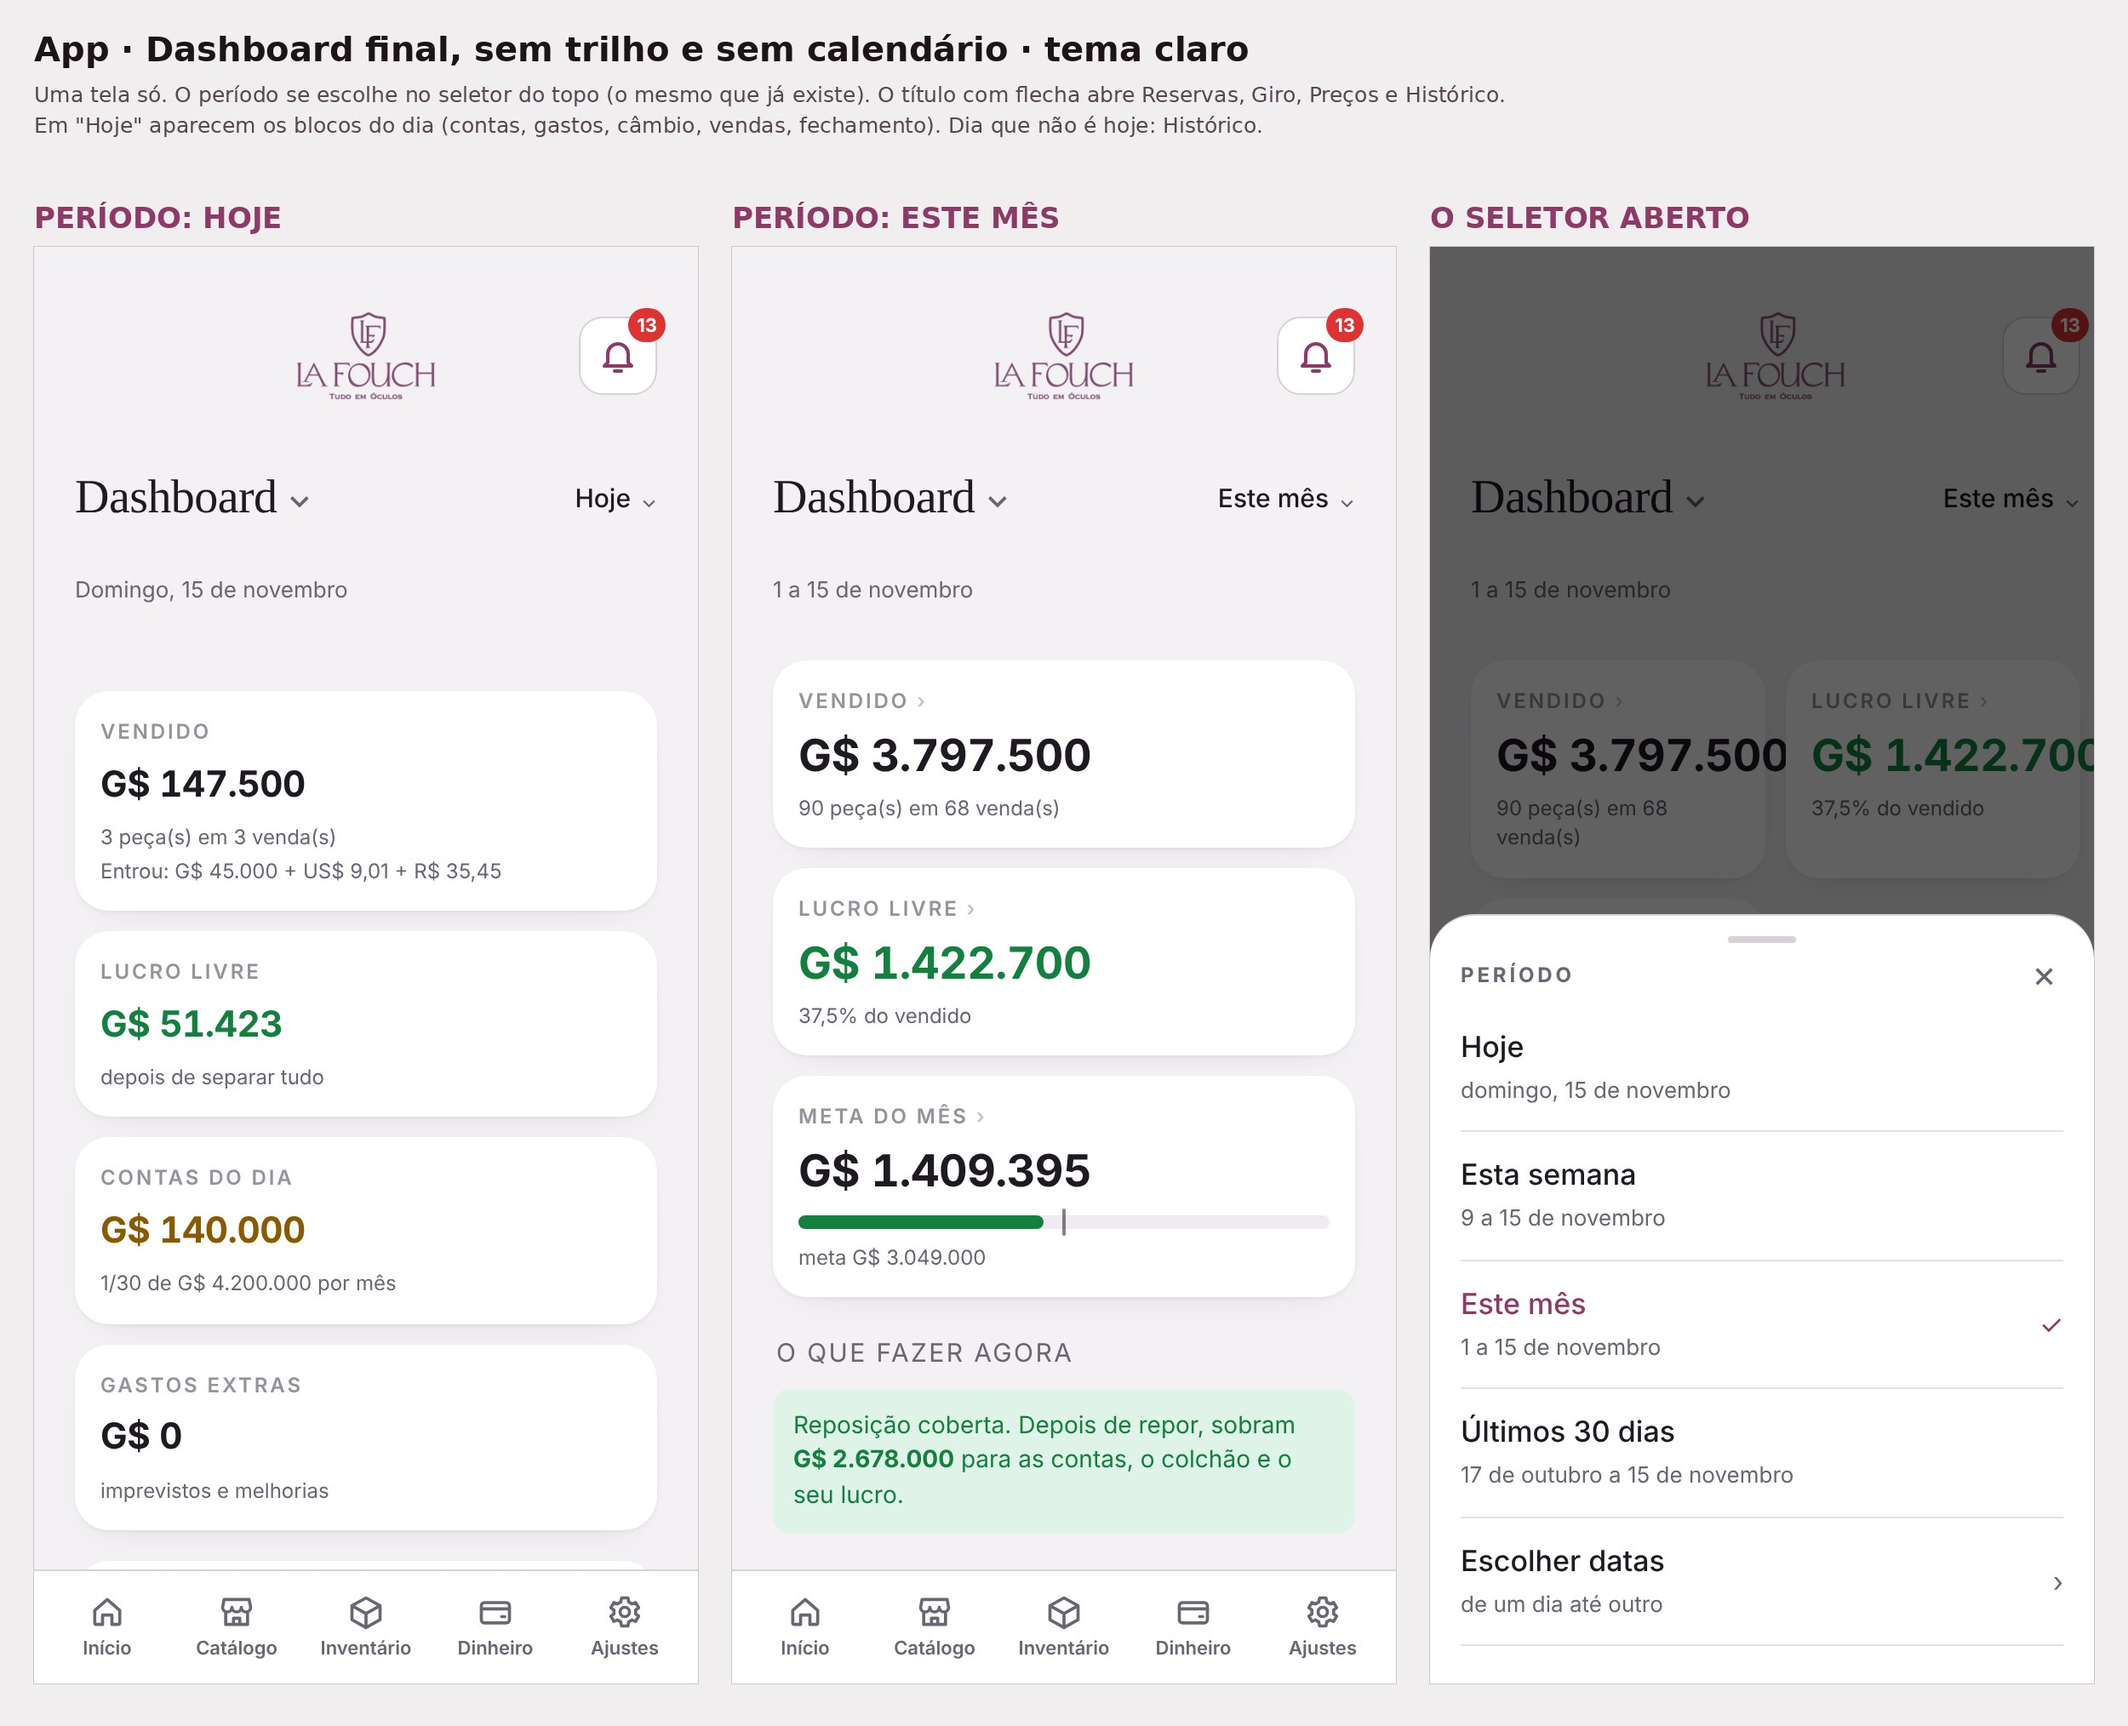
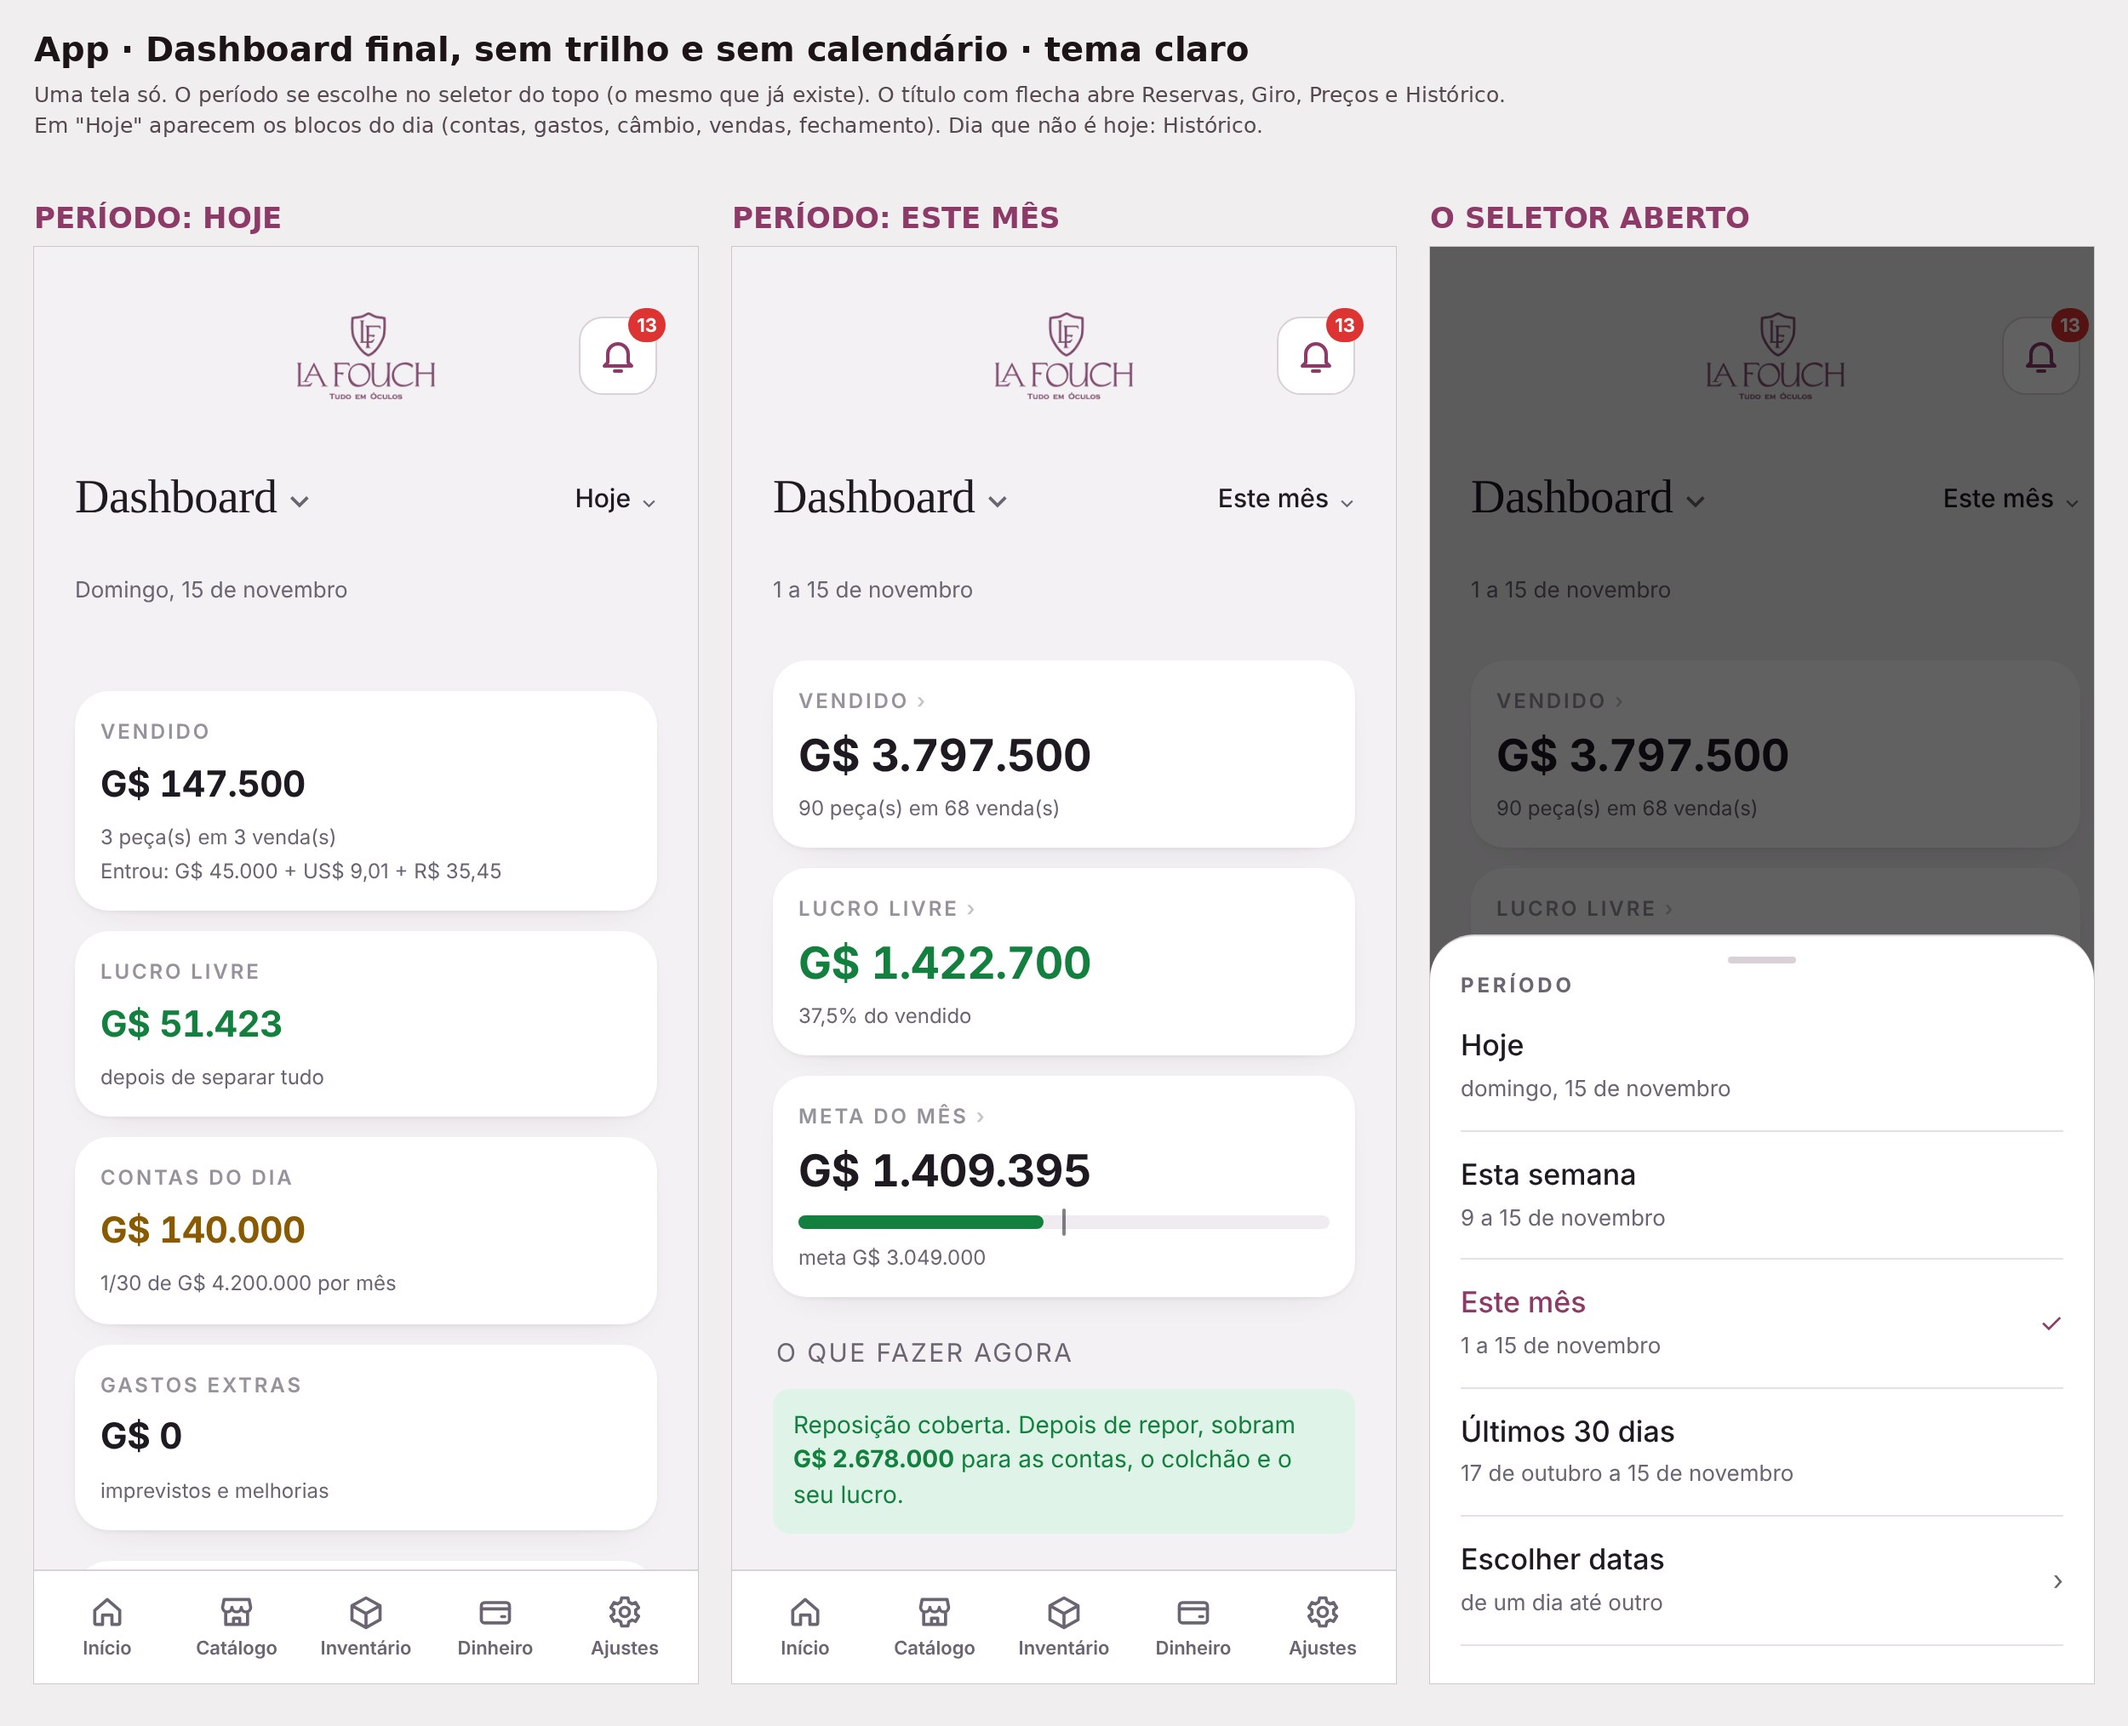
S356f: esboço 48 refeito (sem × no seletor; números sempre 1 por linha no celular)
Claude-Session: https://claude.ai/code/session_01Vj5GPR2QjandaFr6ascRKC

diff --git a/work/s356/final2.py b/work/s356/final2.py
@@ -17,9 +17,9 @@ with sync_playwright() as pw:
     for esc,tema in ((True,'escuro'),(False,'claro')):
         b,pg,w=ap.abre(pw,'dash',esc);w(1200);tit=pg.evaluate("()=>document.querySelector('#v-dash .dHd').outerHTML");b.close()
         b,pg,w=ap.abre(pw,'dia',esc);w(1500);o0=olho(pg);pg.evaluate('()=>scrollBy(0,200)');w(300);o0|=olho(pg);pg.evaluate('()=>scrollTo(0,0)');print('   data:',pg.evaluate(HOJE,tit));w(500);a=T+'h2_%d.png'%esc;pg.screenshot(path=a);o1=olho(pg);b.close()
-        b,pg,w=ap.abre(pw,'dash',esc);w(4200);o0|=olho(pg);pg.add_style_tag(content=CSS35);pg.evaluate("()=>("+MUDA35+")()");pg.evaluate(MES);w(500);m=T+'m2_%d.png'%esc;pg.screenshot(path=m);o1|=olho(pg)
-        pg.evaluate("()=>document.querySelector('#v-dash .dHdP').click()");w(1100);print('   título depois de abrir o seletor:',pg.evaluate("()=>document.querySelector('#v-dash .dHdT').innerText"))
-        pg.evaluate("()=>{const t=document.querySelector('#v-dash .dHdT');if(t&&!/Dashboard/.test(t.innerText))t.firstChild.textContent='Dashboard '}");w(300);s_=T+'s2_%d.png'%esc;pg.screenshot(path=s_);b.close()
+        b,pg,w=ap.abre(pw,'dash',esc);w(4200);o0|=olho(pg);pg.add_style_tag(content=CSS35+'@media(max-width:899px){#dtabBody .kpis.es3{grid-template-columns:minmax(0,1fr)!important}}#dtabBody .kpis.es3 .kpi>b{overflow-wrap:anywhere}');pg.evaluate("()=>("+MUDA35+")()");pg.evaluate(MES);w(500);m=T+'m2_%d.png'%esc;pg.screenshot(path=m);o1|=olho(pg)
+        pg.evaluate("()=>{window.__dt=document.getElementById('dtabBody').innerHTML}");pg.evaluate("()=>document.querySelector('#v-dash .dHdP').click()");w(1100);pg.evaluate("()=>{document.getElementById('dtabBody').innerHTML=window.__dt}");print('   título depois de abrir o seletor:',pg.evaluate("()=>document.querySelector('#v-dash .dHdT').innerText"))
+        pg.evaluate(MES);print('   × tirado:',pg.evaluate("()=>{const x=[...document.querySelectorAll('button')].filter(e=>e.offsetParent&&/^[×✕x]$/i.test(e.innerText.trim())&&getComputedStyle(e.closest('div')).position!=='static'||(e.offsetParent&&/^[×✕]$/.test(e.innerText.trim())));x.forEach(e=>e.remove());return x.length}"));print('   número sai do cartão:',pg.evaluate("()=>[...document.querySelectorAll('#dtabBody .kpi>b')].filter(b=>b.scrollWidth>b.parentElement.clientWidth).length"));w(400);s_=T+'s2_%d.png'%esc;pg.screenshot(path=s_);b.close()
         print('48',tema,'achados novos:',novos(o0,o1))
         ims=[Image.open(x).convert('RGB') for x in (a,m,s_)];w_,h_=ims[0].size;g=40;S=Image.new('RGB',(g+3*(w_+g),300+h_+g),'#f1eef0');d=ImageDraw.Draw(S)
         d.text((g,34),'App · Dashboard final, sem trilho e sem calendário · tema '+tema,font=F(40,True),fill='#1d1418')

diff --git a/docs/FALTA-APROVAR-15-11.md b/docs/FALTA-APROVAR-15-11.md
@@ -113,3 +113,4 @@ Não são esquecimento (estavam na lista, parados de propósito ou por ordem do 
 - 15/11 18:35 — DONO sobre o esboço 47 (decisão dele, SEM esboço, esperando "implementar"): TIRAR o trilho Dia | Mês e a linha do calendário (‹ data ›) do Dashboard; o período se escolhe só no seletor do topo ("Este mês ⌄"), com dia, semana e mês. O seletor já existe e hoje oferece: Hoje, Esta semana, Este mês, Últimos 30 dias (src/98-dash-cabecalho.js). Consequência: o Dashboard vira UMA tela com os mesmos 3 números para qualquer período (Vendido, Lucro livre, Meta/contas) — o esboço 47 vale sem o trilho e sem o calendário. PERGUNTA em aberto feita ao dono: como ver um dia que não é hoje (sem o calendário) — proposta: o seletor ganha "Ontem" e "Escolher dia…"; e o que era próprio da tela do dia (Contas do dia, Gastos extras, Câmbio do dia, Vendas do dia, Fechamento) aparece quando o período é Hoje/um dia.
 - 15/11 18:39 — DONO: dia que não é hoje se vê no HISTÓRICO (é para isso que ele existe) → o seletor NÃO ganha "Ontem/Escolher dia" e o Histórico continua uma tela (dentro do grupo Dashboard). APROVADO: os blocos próprios do dia (Contas do dia, Gastos extras, Câmbio do dia, Vendas do dia, Fechamento) aparecem quando o período é Hoje. Pediu o esboço de como fica (48).
 - 15/11 22:20 — ESBOÇO 48 enviado, ESPERANDO confirmação (work/s356/final2.py): Dashboard final sem trilho e sem calendário — 3 quadros: período Hoje (blocos do dia), período Este mês (3 números + o que fazer + detalhes), e o seletor aberto (o real: Hoje, Esta semana, Este mês, Últimos 30 dias, Escolher datas — este último já existe hoje). Substitui o 47 como referência do Dashboard.
+- 15/11 18:42 — DONO sobre o 48: tirar o "×" da folha do seletor; e os guaranis estavam saindo do cartão. REFEITO o 48 (22:45), ESPERANDO confirmação: (1) folha "Período" sem o ×  — fecha arrastando ou tocando fora (vale também para a folha "Ver" da flecha; regra da folha única); (2) CAUSA do número saindo: quando a folha abre, a tela alarga 16 px (o mesmo defeito do menu do Caixa, esboço 29) e os cartões passam a 2 por linha — com o número grande, não cabe. No celular do dono os cartões do Resumo JÁ ficam 2 por linha. Regra nova na proposta: no celular os 3 números ficam SEMPRE um por linha e o número nunca sai do cartão; e a correção do esboço 29 (abrir folha/menu não muda tamanhos) vale para o app inteiro.

diff --git a/docs/MEMORIA-PROJETO.md b/docs/MEMORIA-PROJETO.md
@@ -2829,3 +2829,4 @@ Decisões do dono sobre a tela Venda confirmada (esboço "venda_confirmada_compr
 - S356c (15/11/2026 18:32): esboço 47 = Dashboard final consolidado (Dia | Mês na mesma tela, título com flecha; "Resumo" deixa de existir; a linha "US$ 1 = …" sai do topo do Mês). É a referência única do Dashboard para a implementação. LIÇÃO: quando uma tela muda em vários esboços, mandar SEMPRE um consolidado do estado final — o dono não tem como somar pedaços.
 - S356d (15/11/2026 18:35): DONO: no Dashboard sai o trilho Dia | Mês e o calendário; período só pelo seletor do topo (dia, semana, mês). Sem esboço, a pedido dele. O esboço 47 continua a referência, sem essas duas peças. Em aberto: dia que não é hoje e os blocos próprios do dia (lista viva).
 - S356e (15/11/2026 18:39–22:20): esboço 48 = Dashboard final v2 (sem trilho Dia|Mês, sem calendário; período pelo seletor real; Histórico continua tela, dentro do grupo). No 3º quadro o fundo atrás da folha é o desenho de hoje (o app redesenha a tela ao abrir o seletor) — dito ao dono. O seletor real já tem "Escolher datas".
+- S356f (15/11/2026 18:42–22:45): 48 refeito — sem o × na folha do seletor; números do Dashboard sempre 1 por linha no celular (`.kpis` é auto-ajustável: com a trava de rolagem a tela ganha 16 px e passa a 2 colunas; no celular real do dono o Resumo já é 2 colunas). A trava de rolagem que alarga a tela (html.lfTrava) afeta TODA folha/menu, não só o Caixa — corrigir junto com o 29. LIÇÃO: testar o esboço também com folha aberta e nas 3 letras.
